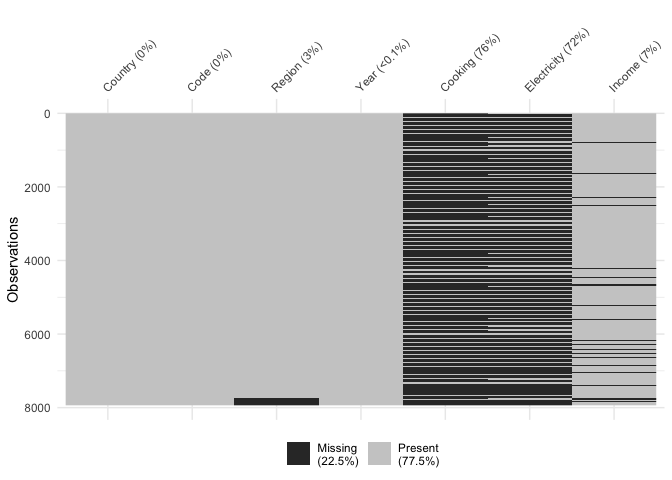
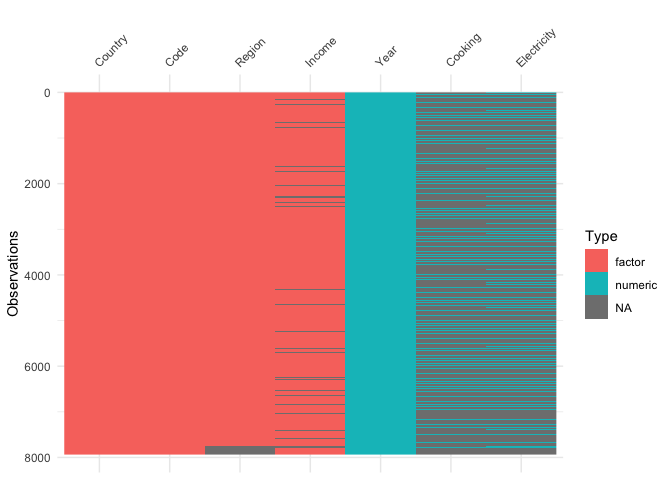
updated

diff --git a/README.md b/README.md
@@ -48,10 +48,16 @@ worldbankdata
 
 ``` r
 library(visdat)
-vis_miss(worldbankdata)
+vis_dat(worldbankdata)
 ```
 
 <img src="man/figures/README-unnamed-chunk-2-1.png" width="100%" />
+
+``` r
+vis_miss(worldbankdata)
+```
+
+<img src="man/figures/README-unnamed-chunk-2-2.png" width="100%" />
 
 ``` r
 library(naniar)
